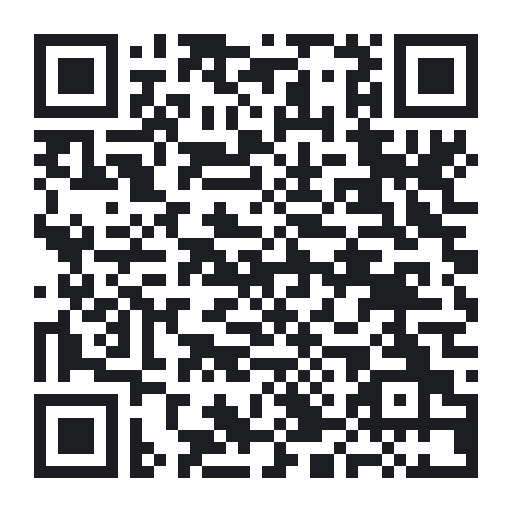
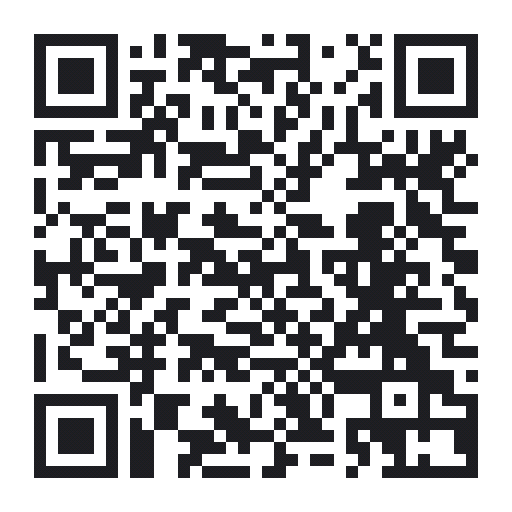
Fixes disconnecting #1, removed OTA & more
Because:

- Blynk keeps disconnecting when only few pzem have power
- OTA features are not used
- Better code viewing
- Over Power alarm not used or not implemented correctly

This commit:

- Added extra delay b/w pzem device to stop blynk disconnecting issues
- code formating
- added project screenshots
- update blynk qr code
- removed OTA features
- removed Over Power alarm
- added wiring info on program itself
- added blynk debug header files for debugging

Changed region(s): [[0.5625, 0.0625, 0.8125, 0.9375], [0.0625, 0.25, 0.3438, 0.9375], [0.5938, 0.9062, 0.6562, 0.9375]]

diff --git a/Blynk-PZEM-016-3-Phase-Failure/settings.h b/Blynk-PZEM-016-3-Phase-Failure/settings.h
@@ -2,7 +2,7 @@
 //                           Settings                          //
 /////////////////////////////////////////////////////////////////
 
-#define BUILD_NUMBER          05                    // Build number is to know latest code is running when we do FOTA update
+#define BUILD_NUMBER          01                    // Build number is to know latest code is running or not when we do FOTA update
 
 /***************************************************
           NodeMCU Pin Assignment
@@ -36,18 +36,18 @@
 How often you would like to call function? Enter time in milliseconds  
  **************************************************/
 
-#define GET_PZEM_DATA_TIME          500L                        // How often you wish to get PZEM data. Enter time in milliseconds. Keep 500L minimum or else Blynk disconnect frequently
-#define SEND_TO_BLYNK_TIME          1000L                       // How often you would like to send data to blynk app. Enter time in milliseconds  
+#define GET_PZEM_DATA_TIME          500L                         // How often you wish to get PZEM data. Enter time in milliseconds. Keep 500L minimum or else Blynk disconnect frequently
+#define SEND_TO_BLYNK_TIME          1000L                        // How often you would like to send data to blynk app. Enter time in milliseconds  
 #define AUTO_MODE_TIME              20000L
-#define PHYSICAL_BUTTON_TIME        500L
+#define PHYSICAL_BUTTON_TIME        300L
 
 /***************************************************
           variable value assignment
  **************************************************/
 
-#define LOW_VOLTAGE_1_CUTOFF         180                           // Low Voltage cut off value. If voltage is less than this value, then it switch off the relay 
-#define LOW_VOLTAGE_2_CUTOFF         180
-#define LOW_VOLTAGE_3_CUTOFF         180
+#define LOW_VOLTAGE_1_CUTOFF         170                           // Low Voltage cut off value. If voltage is less than this value, then it switch off the relay 
+#define LOW_VOLTAGE_2_CUTOFF         170
+#define LOW_VOLTAGE_3_CUTOFF         170
 
 #define HIGH_VOLTAGE_1_CUTOFF        300                           // High Voltage cut off value. If voltage is less than this value, then it switch off the relay 
 #define HIGH_VOLTAGE_2_CUTOFF        300
@@ -78,7 +78,6 @@ How often you would like to call function? Enter time in milliseconds
 #define vPIN_ACTIVE_ENERGY_1          V14
 #define vPIN_FREQUENCY_1              V15
 #define vPIN_POWER_FACTOR_1           V16
-#define vPIN_OVER_POWER_ALARM_1       V17
 
 #define vPIN_VOLTAGE_2                V21
 #define vPIN_CURRENT_USAGE_2          V22
@@ -86,7 +85,6 @@ How often you would like to call function? Enter time in milliseconds
 #define vPIN_ACTIVE_ENERGY_2          V24
 #define vPIN_FREQUENCY_2              V25
 #define vPIN_POWER_FACTOR_2           V26
-#define vPIN_OVER_POWER_ALARM_2       V27
 
 #define vPIN_VOLTAGE_3                V31
 #define vPIN_CURRENT_USAGE_3          V32
@@ -94,7 +92,6 @@ How often you would like to call function? Enter time in milliseconds
 #define vPIN_ACTIVE_ENERGY_3          V34
 #define vPIN_FREQUENCY_3              V35
 #define vPIN_POWER_FACTOR_3           V36
-#define vPIN_OVER_POWER_ALARM_3       V37
 
 #define vPIN_SUM_VOLTAGE              V41
 #define vPIN_SUM_CURRENT_USAGE        V42
@@ -103,8 +100,6 @@ How often you would like to call function? Enter time in milliseconds
 #define vPIN_SUM_FREQUENCY            V45
 #define vPIN_SUM_POWER_FACTOR         V46
 
-/***************************************************
-          Server Settings
- **************************************************/
 
-#define OTA_HOSTNAME "3 Phase Failure Automation"            // OTA name
+
+ 

diff --git a/Blynk-PZEM-016-3-Phase-Failure/secret.h b/Blynk-PZEM-016-3-Phase-Failure/secret.h
@@ -25,4 +25,4 @@
 
 #define PORT 8080
 
-#define FIRMWARE_URL "http://example.com/Blynk-PZEM-004T-Phase-Failure-Automation.ino.nodemcu.bin"        // Enter the firmware URL location. Only http Protocol is supported. https not supported. Used for FOTA
+#define FIRMWARE_URL "http://example.com/Blynk-PZEM-016-3-Phase-Failure.ino.nodemcu.bin"        // Enter the firmware URL location. Only http Protocol is supported. https not supported. Used for FOTA

diff --git a/README.md b/README.md
@@ -1,15 +1,30 @@
-# Blynk with 3 PZEM-016 and NodeMCU  
+# Blynk with 3 PZEM-016 and NodeMCU for Phase Failure Automation
 Blynk ESP8266 (NodeMCU) Program for PZEM 016 Power Meter. 
+
+<h2> What it Does?</h2>
+
+1) If voltage is lessthan minimum set value for all 3 Phase, then it turn OFF Relay 1</br>
+2) Monitors 3 PZEM 016 device data with one ESP8266 (NodeMCU) device (multiple salve)</br>
+3) Auto Mode ON/OFF - With Auto Mode ON, it turn ON Relay 1 if it meets all 3 Phase voltage reaches minimum voltage value. If any those condition don't satisify, then it won't turn on</br>
+4) If voltage is lessthan minimum set value for all 3 Phase, then it turn OFF Relay 1</br>
+5) Show sum of voltage, current usage, active power, active energy, frequency and power factor</br>
+6) You can update firmware using "HTTP Server OTA" method. In other words, through internet you can update firware without having physical access to device or without connecting to same network</br>
+7) For other 1 Relays user can connect other devices to control On/Off through internet using blynk app</br>
+
 
 <h2>Requirements</h2>
 1) <a href="http://s.click.aliexpress.com/e/pV6CDdr2">PZEM-016 (3 No)</a></br>
 2) <a href="http://s.click.aliexpress.com/e/nlefJ4PI">NodeMCU (1 No) </a></br>
 3) <a href="http://s.click.aliexpress.com/e/5D9mJ8JW">MAX485 Module RS-485 TTL to RS485 MAX485CSA Converter Module (1 No) </a></br>
-4) <a href="http://s.click.aliexpress.com/e/e9vv4Wwy">USB to RS485 485 Converter Adapter</a> (optional)</br>
-5) <a href="https://play.google.com/store/apps/details?id=cc.blynk">Blynk App</a></br>
+4) <a href="http://s.click.aliexpress.com/e/K59e6yQc">2 Channel Relay Module (1 No)</a> </br>
+5) <a href="http://s.click.aliexpress.com/e/e9vv4Wwy">USB to RS485 485 Converter Adapter (optional)</a></br>
+6) <a href="https://play.google.com/store/apps/details?id=cc.blynk">Blynk App</a></br>
 
 <h2> Installation </h2>
-Open settings.h and change Bynk Auth code, Wifi settings, server settings and few other parameters as per your project requirement.
+<ul>
+<li>Open <code>secret.h</code> and change Bynk Auth code, Wifi settings, server settings and few other parameters as per your project requirement. </li>
+<li>Open <code>settings.h</code> - Usually you don't need to change any values here, but if you need any customization feel free play with it.</li>
+</ul>
 
 
 <h2> Hardware Connection </h2>
@@ -33,6 +48,13 @@ DE  to D1/GPIO5</br>
 RE  to D2/GPIO4</br>
 RO  to D5/GPIO14</br>
 
+<h3>NodeMCU to 2 channel Relay Module</h3>
+   
+D4 to Relay Pin 1</br>
+D0 to Relay Pin 2</br>
+Vin to VCC</br>
+GND to GND</br>
+ 
 
 <h2> Software Setup </h2>
 
@@ -46,13 +68,25 @@ RO  to D5/GPIO14</br>
 
 5) Go to the settings.h tab. This is where all the customisable settings are. You should be able to change almost everything from there before compiling.
 
-<h2> Screenshots </h2>
+<h2> Product Images </h2>
 
 <img src="/images/products/peacefair-pzem-016-with-split-ct.jpg" alt="PZEM-016" title="PZEM-016" width="350" height=""></br>
 
 <img src="/images/products/max485-rs-485-to-ttl-converter-module.jpg" alt="MAX485 Module RS-485 TTL to RS485 MAX485CSA Converter Module " title="MAX485 Module RS-485 TTL to RS485 MAX485CSA Converter Module " width="350" height=""></br>
 
 <img src="/images/products/usb-to-rs485.jpg" alt="USB to RS485 485 Converter Adapter" title="USB to RS485 485 Converter Adapter" width="350" height=""></br>
+
+<h2> Project Screenshots</h2>
+
+<img src="/images/screenshots/1.jpg" alt="PZEM-016" title="PZEM-016" width="350" height=""></br>
+
+<img src="/images/screenshots/2.jpg" alt="PZEM-016" title="PZEM-016" width="350" height=""></br>
+
+<img src="/images/screenshots/3.jpg" alt="PZEM-016" title="PZEM-016" width="350" height=""></br>
+
+<img src="/images/screenshots/4.jpg" alt="PZEM-016" title="PZEM-016" width="350" height=""></br>
+
+<img src="/images/screenshots/5.jpg" alt="PZEM-016" title="PZEM-016" width="350" height=""></br>
 
 
 <h2> Scan QR Code on Blynk App </h2>
